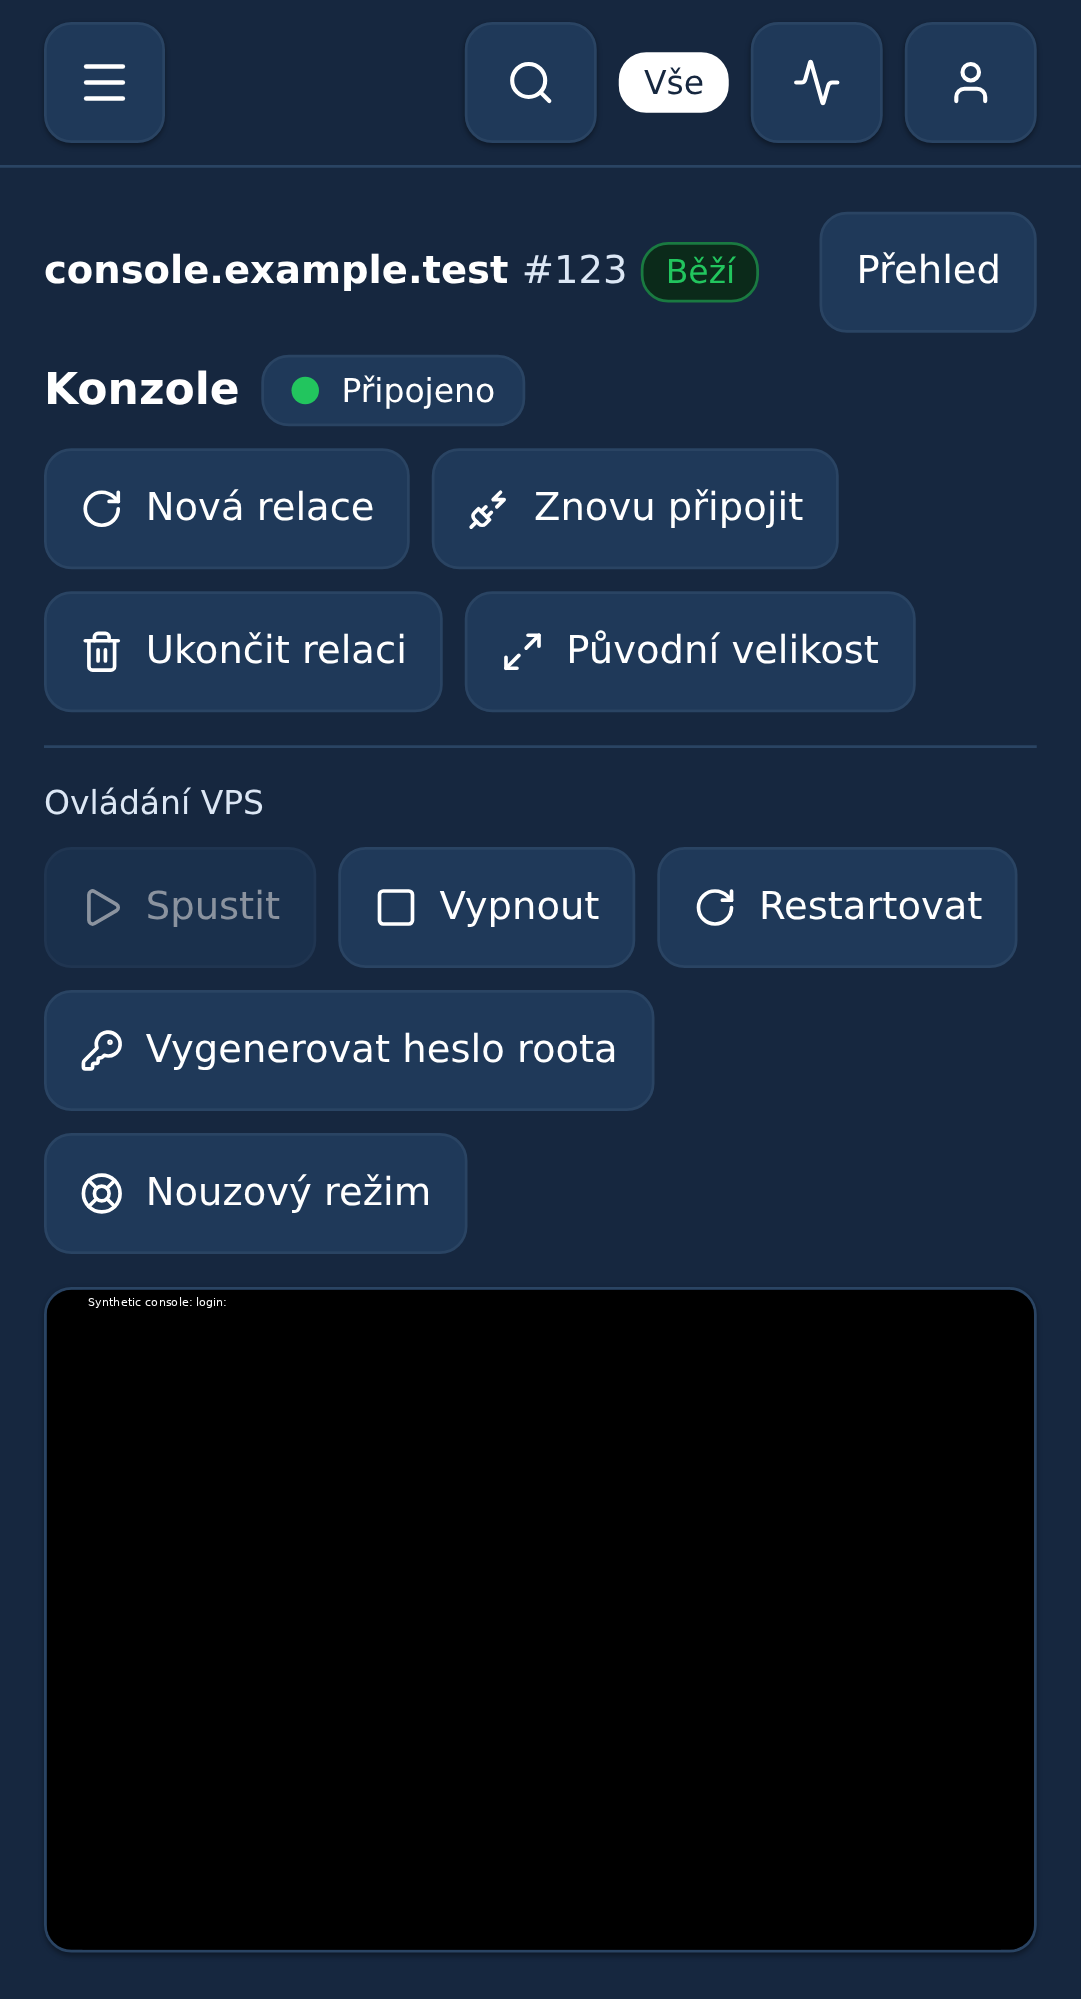
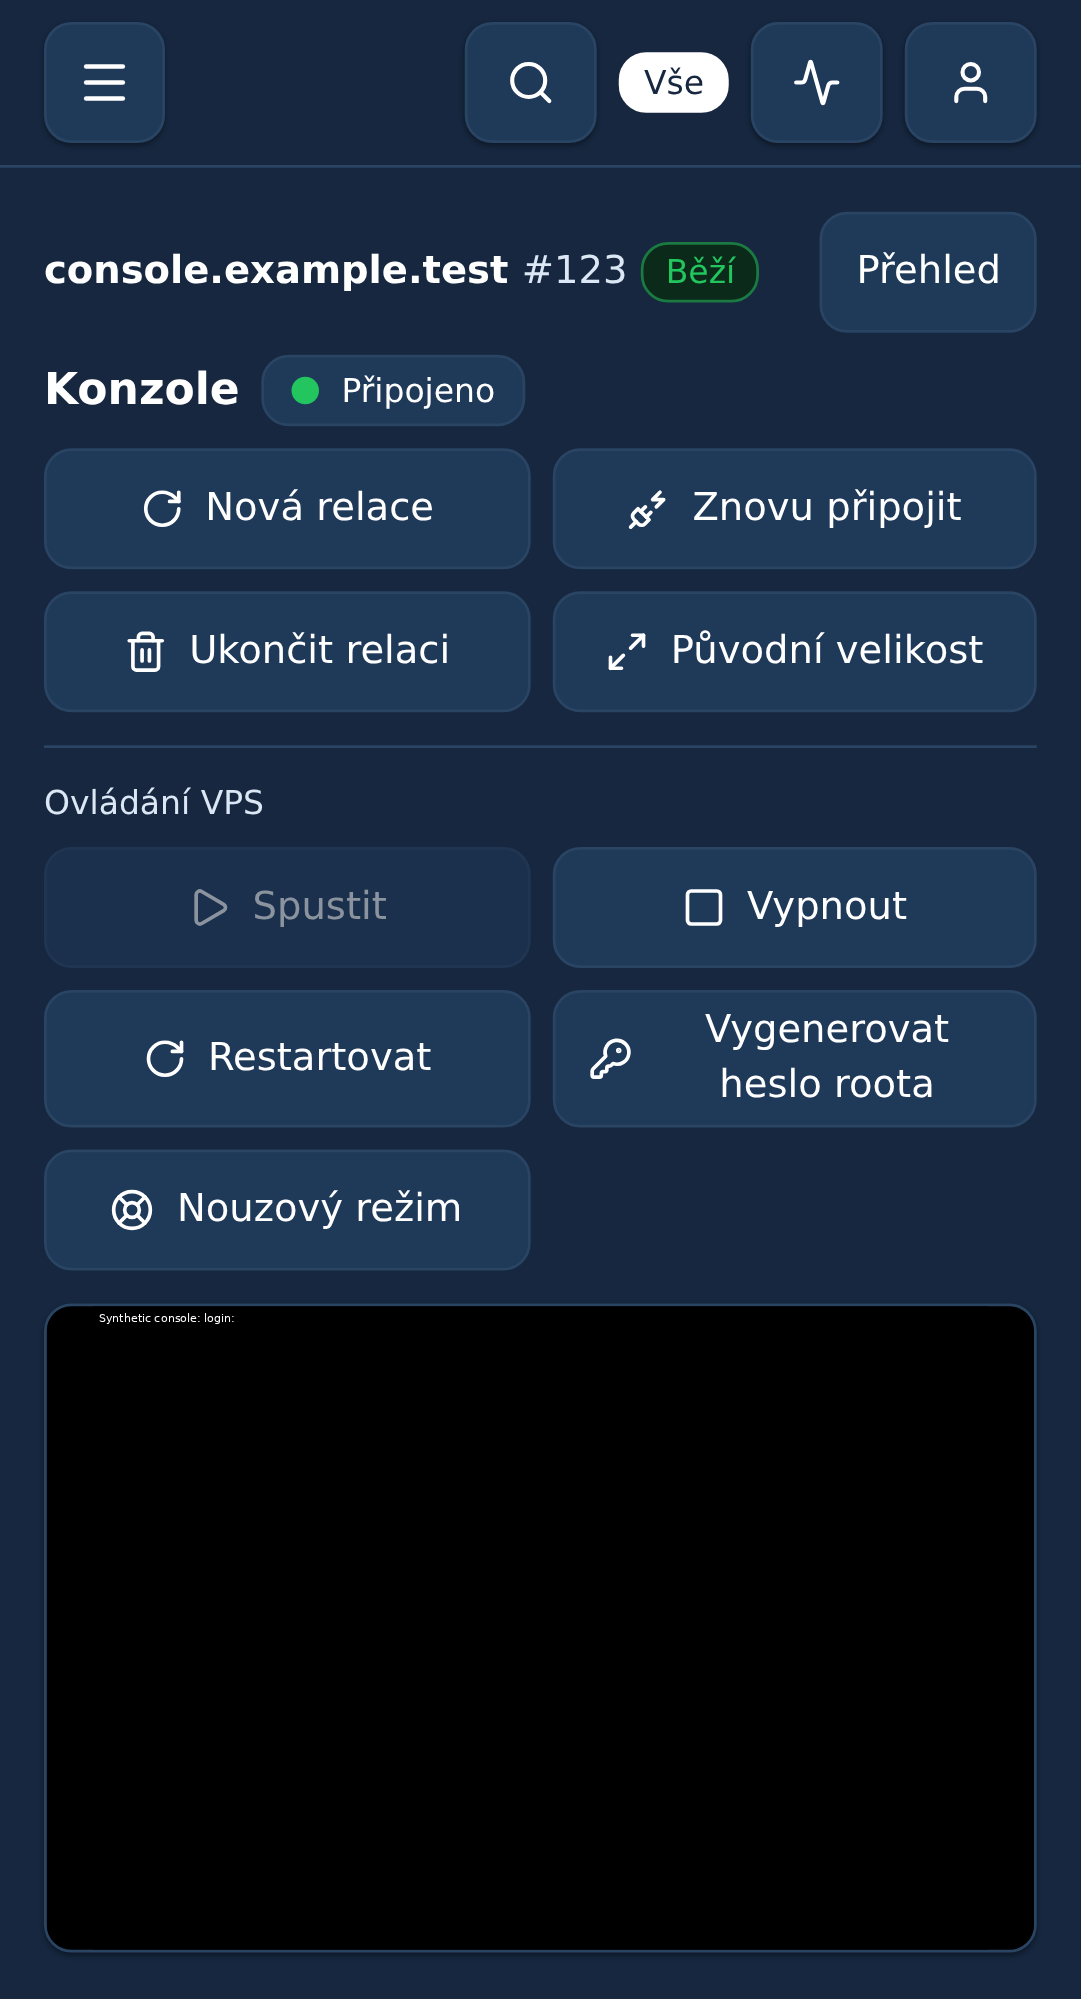
webui: give console buttons matching columns
Align every corresponding session and VPS action instead of only the
first button. Use responsive equal-width columns and wrapping labels
while preserving touch targets.

diff --git a/e2e/specs/app/vps_console_controls.spec.ts b/e2e/specs/app/vps_console_controls.spec.ts
@@ -81,6 +81,12 @@ for (const language of ['cs', 'en'] as const) {
     expect(powerButton).not.toBeNull();
     expect(Math.abs(sessionButton!.x - powerButton!.x)).toBeLessThanOrEqual(1);
     expect(powerButton!.y).toBeGreaterThan(sessionButton!.y + sessionButton!.height);
+    for (const [session, action] of [['new_session', 'start'], ['reconnect', 'stop'], ['revoke_session', 'restart'], ['focus', 'password']]) {
+      const upper = (await page.getByTestId(`vps.console.${session}`).boundingBox())!;
+      const lower = (await page.getByTestId(`vps.console.control.${action}`).boundingBox())!;
+      expect(Math.abs(upper.x - lower.x)).toBeLessThanOrEqual(1);
+      expect(Math.abs(upper.width - lower.width)).toBeLessThanOrEqual(1);
+    }
     await page.screenshot({ path: testInfo.outputPath(`console-controls-${language}.png`), fullPage: true });
     for (const action of ['stop', 'restart'] as const) {
       await activate(page.getByTestId(`vps.console.control.${action}`), hasTouch);

diff --git a/src/pages/app/vps/VpsConsoleControls.tsx b/src/pages/app/vps/VpsConsoleControls.tsx
@@ -44,7 +44,7 @@ export function VpsConsoleControls(props: {
       aria-label={t('vps.console.controls')}
     >
       <span className="flex items-center text-xs font-medium text-muted sm:min-h-8">{t('vps.console.controls')}</span>
-      <div className="flex min-w-0 flex-wrap items-center gap-2">
+      <div className="grid min-w-0 grid-cols-2 gap-2 lg:grid-cols-3 xl:grid-cols-5 [&>button]:h-auto [&>button]:min-h-11 [&>button]:py-1 [&_svg]:shrink-0">
         {actions.map(({ id, label, Icon, gate, run }) => (
           <ActionButton
             key={id}

diff --git a/src/pages/app/vps/VpsConsolePage.tsx b/src/pages/app/vps/VpsConsolePage.tsx
@@ -230,7 +230,7 @@ function MutableVpsConsolePage() {
             </div>
           </div>
 
-          <div className="flex flex-wrap items-center gap-2">
+          <div className="grid min-w-0 grid-cols-2 gap-2 lg:grid-cols-3 xl:grid-cols-5 [&>button]:h-auto [&>button]:min-h-11 [&>button]:py-1 [&_svg]:shrink-0">
             <Button
               variant="secondary"
               size="sm"

diff --git a/docs/design/REQUIREMENTS.md b/docs/design/REQUIREMENTS.md
@@ -41,7 +41,7 @@ The Acceptance column describes what must be checked, not a claim it all passed.
 | REQ-017 | Provide one resource workspace including root dataset capacity. | CPU/memory/swap and disk reachable together; separate API mutations/reviews remain explicit, no false atomic save. | U; [PR505](https://github.com/Kerrycek/clankerdev/pull/505), [fixture](../../e2e/specs/app/vps_resource_workspace.spec.ts) | Delivered |
 | REQ-018 | Expose legacy administrator allocation overrides. | Admin can explicitly bypass allocation checks where API supports it; member cannot; VPS and dataset requests use actual contract. | U; [PR503](https://github.com/Kerrycek/clankerdev/pull/503) | Delivered |
 | REQ-019 | Preserve edited resources when asynchronous defaults arrive. | Late default lookup cannot overwrite edits; resulting request matches reviewed values. | P; [PR498](https://github.com/Kerrycek/clankerdev/pull/498) | Delivered |
-| REQ-020 | Open the console directly and show terminal plus keyboard without page scrolling. | Left-aligned console session and VPS action rows with a shared label column on desktop and stacked labels on mobile; the second VPS action row (power, root password and rescue) without a new-tab action; retain the session while dialogs open. Fit the complete pinned renderer to the window, with explicit Original size. Bounded/deduplicated token requests and explicit revoke/replacement safeguards remain. | U; [PR517](https://github.com/Kerrycek/clankerdev/pull/517), [fixture](../../e2e/specs/app/vps_console_page.spec.ts), [viewport change](../work-log/2026-09-30-console-viewport.md) | Delivered: autostart retained and viewport follow-up in PR4; [release 718cf759](../work-log/2026-09-30-three-site-release.md); [console action row prepared](../work-log/2026-10-09-console-vps-controls.md) |
+| REQ-020 | Open the console directly and show terminal plus keyboard without page scrolling. | Left-aligned console session and VPS action rows with shared label and equal-width button columns on desktop and stacked labels with matching button columns on mobile; the second VPS action row (power, root password and rescue) without a new-tab action; retain the session while dialogs open. Fit the complete pinned renderer to the window, with explicit Original size. Bounded/deduplicated token requests and explicit revoke/replacement safeguards remain. | U; [PR517](https://github.com/Kerrycek/clankerdev/pull/517), [fixture](../../e2e/specs/app/vps_console_page.spec.ts), [viewport change](../work-log/2026-09-30-console-viewport.md) | Delivered: autostart retained and viewport follow-up in PR4; [release 718cf759](../work-log/2026-09-30-three-site-release.md); [console action row prepared](../work-log/2026-10-09-console-vps-controls.md) |
 | REQ-021 | Support normal member deletion and explicit admin soft/hard deletion with retention. | Correct permission/endpoint per mode; future expiry only for supported soft transition; hard ignores stale expiry; clear target/receipt. | U; [PR518](https://github.com/Kerrycek/clankerdev/pull/518) | Delivered frontend; dev default retention Open |
 | REQ-022 | Diagnose dev VPS deletion failure without duplicating an uncertain operation. | Read receipt/API state first; configure missing retention only after policy decision; do not mistake request accepted for completed deletion. | U; [contracts](API_CONTRACTS.md) | Open configuration decision |
 | REQ-023 | Keep VPS creation and power/access/network/maintenance operations available with safeguards. | Open the created VPS detail as soon as the API accepts creation, show pending/completed/failed/unknown status, refresh automatically and retain owner context and mutation locks. Confirm actual target and implications, honor role/state locks, show failure and successful action state; preserve draft on rejection. | C/P; [VPS adapters](../../src/lib/api/vps.ts), [PR458](https://github.com/Kerrycek/clankerdev/pull/458) | Baseline; accepted-creation detail follow-up delivered in PR7; real lifecycle certification remains separate; [release 718cf759](../work-log/2026-09-30-three-site-release.md) |

diff --git a/docs/work-log/2026-10-09-console-vps-controls.md b/docs/work-log/2026-10-09-console-vps-controls.md
@@ -91,3 +91,14 @@ and strict E2E type checks, ESLint for both components, Tailwind and structural
 audits, design-documentation audit, and production build. The existing chunk-size
 warning remains informational. These are isolated synthetic browser tests; no
 public deployment or real VPS operation was performed.
+
+The next review clarified that every corresponding button should align, not
+only the start of each group. Both groups now share equal-width responsive
+columns (five on wide desktop, three on narrower desktop, two on mobile).
+Buttons allow multi-line labels, maintain at least 44px height, and preserve
+icon size. Geometry assertions cover the first four matching positions and
+widths in both languages. Review screenshots are updated to this final layout.
+
+The final column layout passed the same 24 controls/viewport cases, frontend
+and strict E2E type checks, component ESLint, Tailwind, structural and design-docs
+audits, and production build. Synthetic evidence only; still not deployed.
